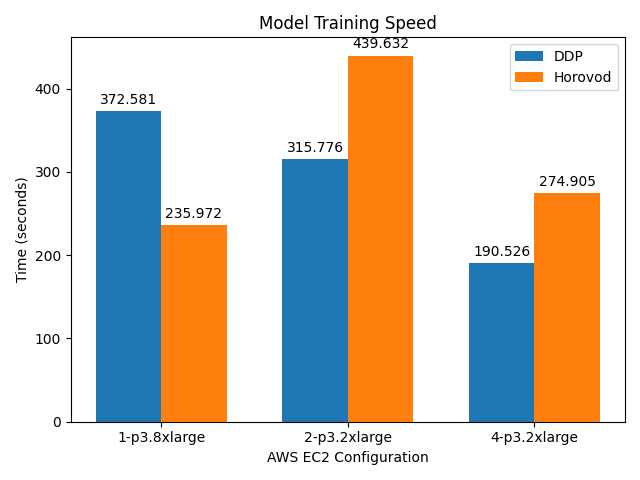
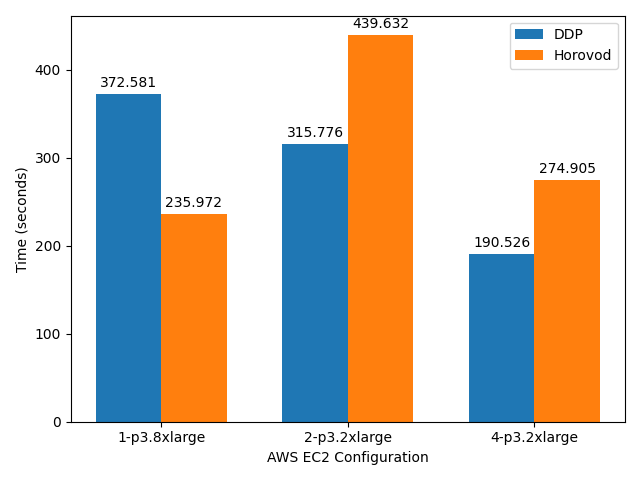
Removes title from chart

diff --git a/visualizations/training-speed/training-speeds.py b/visualizations/training-speed/training-speeds.py
@@ -21,10 +21,6 @@ df_hvd = df[(df['FRAMEWORK'] == 'Horovod')]
 ddp = df_ddp['TRAINING SPEED'].to_numpy()
 hvd = df_hvd['TRAINING SPEED'].to_numpy()
 
-print(labels)
-print(ddp)
-print(hvd)
-
 x = np.arange(len(labels))  # the label locations
 width = 0.35  # the width of the bars
 
@@ -35,7 +31,7 @@ rects2 = ax.bar(x + width/2, hvd, width, label='Horovod')
 # Add some text for labels, title and custom x-axis tick labels, etc.
 ax.set_ylabel('Time (seconds)')
 ax.set_xlabel('AWS EC2 Configuration')
-ax.set_title('Model Training Speed')
+#ax.set_title('Model Training Speed')
 ax.set_xticks(x)
 ax.set_xticklabels(labels)
 ax.legend()
